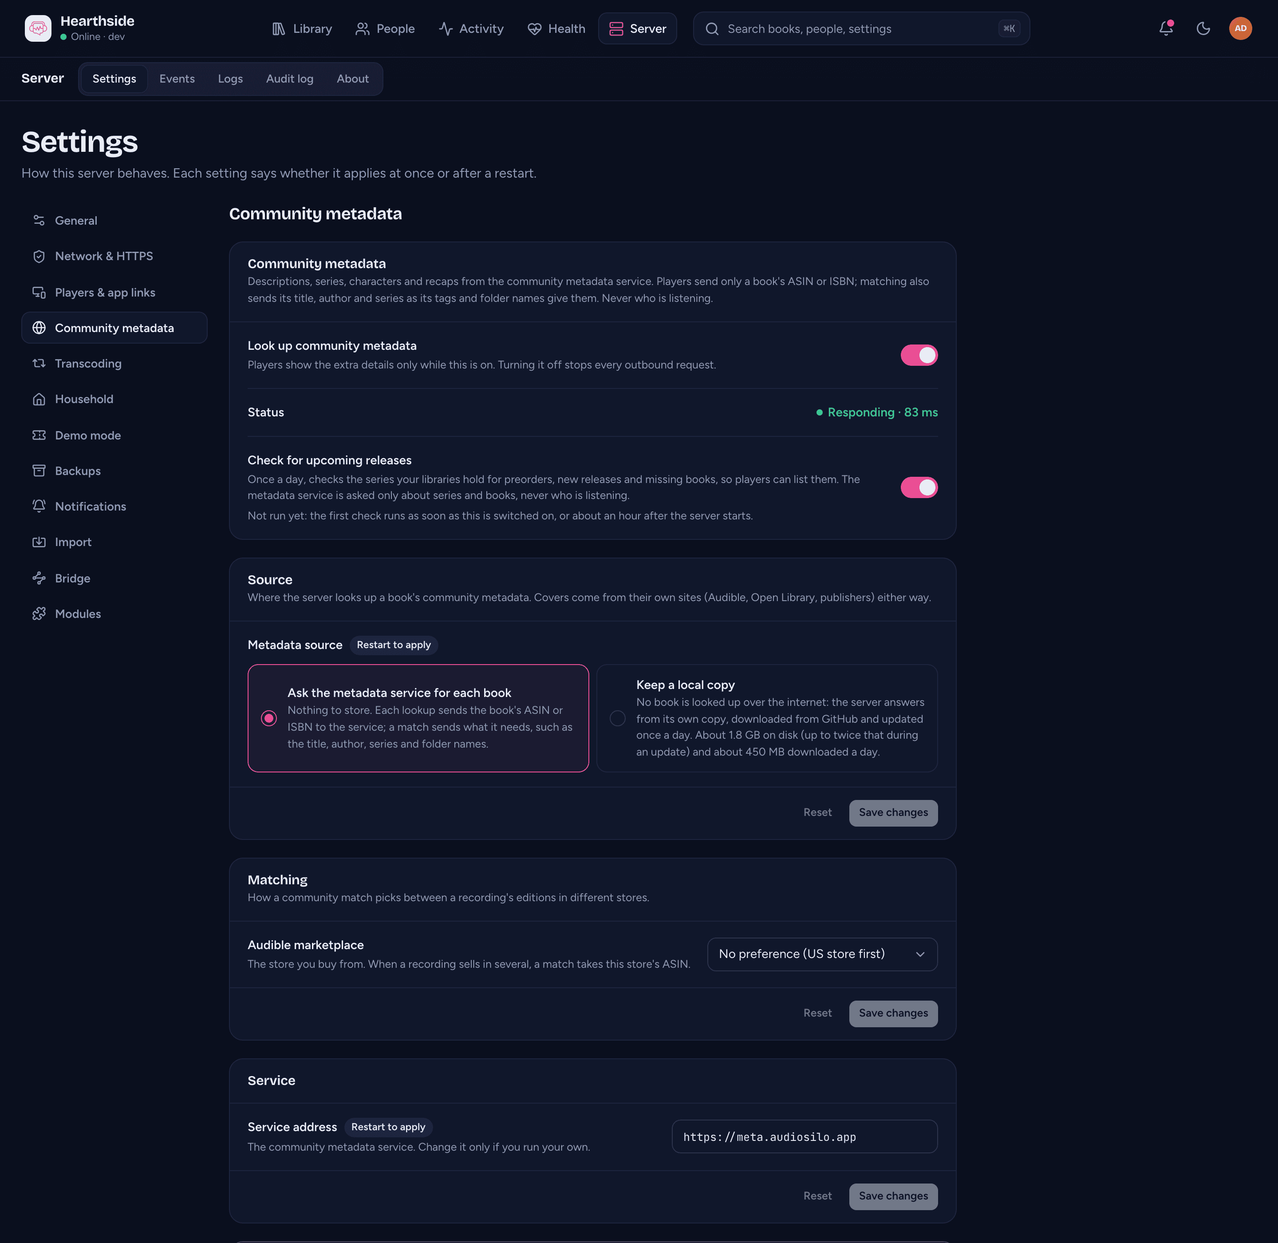
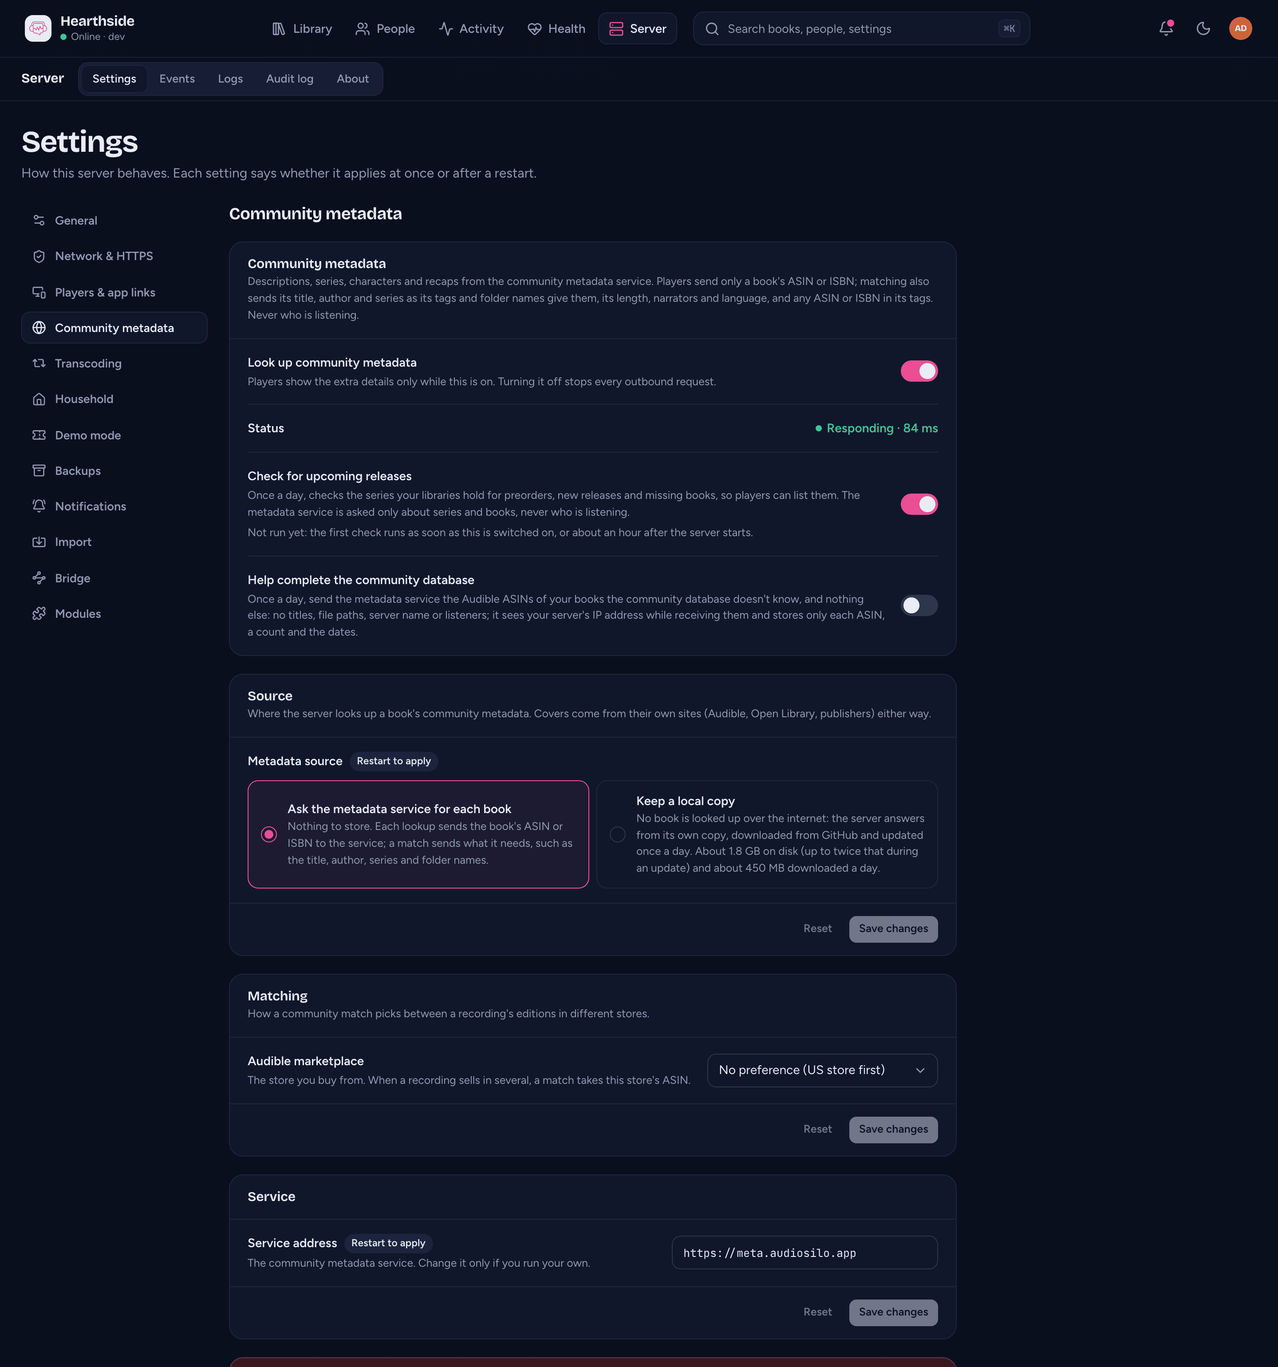
Help complete the community database: the opt-in unknown-ASIN report (2.6.0)
User Guide: Server settings gets the switch, a section on what it sends and
the status line's four states, and the local copy's exception; the FAQ,
the match note on Books and the tag hints on Health say what it adds.
Developer Docs: metadata.report_unknown in the config, env and settings
tables with a section on a run, the report_status wire in the API
reference, 0068 and the server_state key in the data model, and one line
in the cross-repo contract. The Settings > Metadata shot is retaken with
the new switch (taller viewport, so the Service card still fits).

diff --git a/docs-developers/server/configuration.md b/docs-developers/server/configuration.md
@@ -395,6 +395,7 @@ database and answers the same questions itself (see
 | `metadata.base_url` | string, `"https://meta.audiosilo.app"` | Base URL of the metadata service (the site is served at `/` and the API at `/api/v1`). **Must be an absolute `http`/`https` URL when metadata is enabled**. Still needed in mirror mode: it is the fallback, and the site links (`web_url`, the attribution's `source_url`) name it |
 | `metadata.mode` | string, `"remote"` | Where the lookups are answered: `remote` asks `base_url` for each book; `mirror` keeps a local copy of the service's database in `<data>/meta-mirror/` and answers from it ([below](#mirror-mode-metadatamode-mirror)). Any case, stored lower case; empty (a `config.yaml` written before the key existed) reads as `remote`; any other value is a config error naming the allowed ones. **Read at start** (a restart setting) |
 | `metadata.region` | string, `""` | The Audible marketplace a community match prefers when a recording sells in several: one of `us`, `uk`, `ca`, `au`, `de`, `fr`, `es`, `it`, `jp`, `in`, `br` (the community metadata's region vocabulary; any case, stored lower case). `""` = no preference: the US store's ASIN first. Orders each match candidate's `asins` (preferred store's, then `us`, then the rest), breaks a runtime tie between recordings for the one selling there, and is what a [bulk match](api/reference.md#bulk-community-matching) repick looks for. It says nothing about a library's language: a match sends only the book's own. Applies live |
+| `metadata.report_unknown` | bool, `false` | The opt-in daily report of unknown Audible ASINs (2.6.0; [below](#the-unknown-asin-report-metadatareport_unknown)). Runs only while `metadata.enabled` is on too, never on a demo server. Applies live (console: **Server > Settings > Community metadata**, *Help complete the community database*, setting id `metadata.report_unknown`, greyed out while the lookup is off); `AUDIOSILO_METADATA_REPORT_UNKNOWN` wins at every start and locks it |
 
 `metadata.enabled` applies **live**: an admin can switch the lookup on or off
 from the console's **Server > Settings > Community metadata** (or via
@@ -422,6 +423,48 @@ when there is one; while it is off nothing is checked and
 Chapters already in use stay until an admin switches a book back. Enrichment is
 strictly additive and cached - a slow or unreachable service degrades to no
 section, never a broken page.
+
+#### The unknown-ASIN report (`metadata.report_unknown`)
+
+Off by default. While it and `metadata.enabled` are on, a daily job
+(`internal/coverage`) sends the metadata service the Audible ASINs of this
+server's books that the community database doesn't know, so the community's
+[reported-ASIN lane](../meta/sync-bot.md#the-reported-asin-lane) can import
+them. A run:
+
+- **Candidates**: books libraries only, upper-cased and format-checked. Each
+  book's `asin` (except one a community match gave it, which is known by
+  definition), plus a tag ASIN only for a book with no ASIN or ISBN of its own
+  and a tag no other book carries (`catalog.UnknownASINCandidates`).
+- **Lookup first**: up to 500 candidates a run (never looked up, or looked up 30+
+  days ago) go through the ordinary lookup (`meta.Service.KnownASIN`); only a 404
+  counts as unknown, and any other failure stops the lookups until the next day.
+  In mirror mode the run waits until the local copy is ready, the copy answers the
+  lookups, and only the report goes to `base_url`.
+- **The report**: the unknown ASINs not sent in the last 30 days, shuffled, 200 to
+  a `POST <base_url>/api/v1/intake/unknown-asins` with the body exactly
+  `{"asins":[...]}`, at most 5 a run and none within 23 hours of the last. Headers
+  are only `Content-Type: application/json` and a fixed `User-Agent: AudioSilo`:
+  no `X-AudioSilo-Client`, server id, auth or version. Redirects are never
+  followed.
+- **HTTPS only**: a `base_url` with plain `http` is reported to only when its host
+  is loopback (`127.0.0.0/8`, `::1`, `localhost`); any other is `not_offered`
+  with no call.
+- **Answers**: a 202 with `accepted` marks that chunk sent; a 404, 405, 3xx or a
+  2xx without `accepted` (an older metaserve, or intake off; see
+  [the intake queue](../meta/api.md#unknown-asin-intake-queue-optional)) is
+  `not_offered` and the service is left alone for 7 days; 429, 5xx or anything
+  else marks nothing (`failed`, tried the next day).
+- **Schedule**: the first run an hour after the start (or a day after the last
+  run), then daily +-1 hour. Switching it (or metadata) on runs it at once unless
+  one ran in the last 23 hours. The run state is kept in `server_state`, so a
+  restart never runs it again early.
+
+The console words the run from `GET /admin/settings`'s read-only
+`metadata.report_status` (see the
+[API reference](api/reference.md#get-apiv1adminsettings)). What it stores is in
+[Data model](data-model.md#unknown-asin-reports): ASINs only, never a book or
+path.
 
 #### Mirror mode (`metadata.mode: mirror`)
 
@@ -742,6 +785,7 @@ by the settings table in `internal/config/settings.go` (`fields`: each entry's
 | `AUDIOSILO_METADATA_BASE_URL` | `metadata.base_url` | URL |
 | `AUDIOSILO_METADATA_REGION` | `metadata.region` | marketplace code (`uk`) |
 | `AUDIOSILO_METADATA_MODE` | `metadata.mode` | `remote` or `mirror` (any case) |
+| `AUDIOSILO_METADATA_REPORT_UNKNOWN` | `metadata.report_unknown` | `strconv.ParseBool` (`true`/`1`/…) |
 | `AUDIOSILO_UPCOMING_ENABLED` | `upcoming.enabled` | `strconv.ParseBool` (`false`/`0`/… turns it off) |
 | `AUDIOSILO_UPCOMING_WINDOW_DAYS` | `upcoming.window_days` | integer, 1-365; read at start |
 | `AUDIOSILO_UPDATE_CHECK` | `update_check` | `strconv.ParseBool` (`false`/`0`/… turns it off) |
@@ -814,6 +858,7 @@ restart, and whether the console may change it at all:
 | `metadata.region` | `metadata.region` | `AUDIOSILO_METADATA_REGION` | at once |
 | `metadata.mode` | `metadata.mode` | `AUDIOSILO_METADATA_MODE` | restart |
 | `metadata.upcoming` | `upcoming.enabled` | `AUDIOSILO_UPCOMING_ENABLED` | at once |
+| `metadata.report_unknown` | `metadata.report_unknown` | `AUDIOSILO_METADATA_REPORT_UNKNOWN` | at once |
 | `demo.enabled` | `demo.enabled` | `AUDIOSILO_DEMO_ENABLED` | restart |
 | `demo.library` | `demo.library` | `AUDIOSILO_DEMO_LIBRARY` | at once |
 | `demo.max_users` | `demo.max_users` | `AUDIOSILO_DEMO_MAX_USERS` | at once |

diff --git a/docs-users/admin/server.md b/docs-users/admin/server.md
@@ -221,7 +221,9 @@ listeners' devices never contact those image hosts.
 
 With a [local copy](#keeping-a-local-copy) (once it is ready), the lookup,
 matching and the chapter checks are all answered on your server; only the
-cover images are still downloaded from their hosts.
+cover images are still downloaded from their hosts (and, if you turned it on,
+the daily [report of unknown ASINs](#helping-complete-the-community-database)
+still goes to the metadata service).
 
 - Flipping the switch takes effect immediately for **everyone connected**, and
   the choice is remembered across restarts.
@@ -251,6 +253,12 @@ cover images are still downloaded from their hosts.
   *M* books coming or missing", or, in red, "Last check failed *when*" with the
   reason. How far back a release still counts as new (90 days) is set in the
   config file only.
+- **Help complete the community database** (from 2.6.0, **off** by default)
+  sends the metadata service, once a day, the Audible ASINs of your books that
+  the community database doesn't know, so the community can add them. See
+  [Helping complete the community database](#helping-complete-the-community-database)
+  below for what it sends and what the line under it says. Like the upcoming
+  check, it works only while the lookup is on.
 - **Audible marketplace** in the **Matching** card is the store you buy from
   (United Kingdom, United States, Germany and so on). When a recording sells in
   several stores, a match takes this store's ASIN; with **No preference** it
@@ -279,6 +287,59 @@ cover images are still downloaded from their hosts.
   only matching again brings the values back. While a match run is working it
   asks you to wait for it, or stop it, first.
 
+#### Helping complete the community database
+
+From 2.6.0, the **Help complete the community database** switch lets your
+server tell the community which of your books it is missing. It is **off**
+until you turn it on, and it works only while **Look up community metadata** is
+on (it is greyed out otherwise). Once a day, while it is on:
+
+1. The server collects your books' Audible ASINs: each book's own ASIN, and an
+   ASIN from a book's tags only when the book has no ASIN or ISBN of its own
+   and no other book's tags carry the same ASIN.
+2. It looks each one up in the community database first, as the lookup always
+   does, and keeps only the ones the database doesn't know.
+3. It sends those ASINs to the metadata service, and nothing else: no titles,
+   file paths, server name, or anything about who listens. The service sees
+   your server's IP address while it receives them and stores only each ASIN,
+   a count and the dates it was reported, with no address. It holds the
+   address in memory for about a day after its last request, for a rate limit.
+   meta.audiosilo.app keeps no access log for these reports over HTTPS, which
+   is how AudioSilo servers send them; if the service fails while
+   answering one, the web server's error log can record the address. Its
+   [privacy page](https://meta.audiosilo.app/privacy) ("Reports of unknown
+   books") has the details.
+
+A report is a suggestion of where to look, never a record: the community's
+catalogue bot can look each reported ASIN up as a real Audible listing and add
+the book in a reviewed change, so a later lookup of that book finds it.
+
+Some limits on what it does:
+
+- It sends only over **HTTPS**. With a **Service address** that starts with
+  `http://` (other than one on this same machine, for testing), nothing is sent.
+- With a [local copy](#keeping-a-local-copy), the lookups are answered by the
+  copy on your server, and only the report itself goes to the metadata service.
+  Nothing is sent until the copy is ready.
+- A server in [demo mode](#demo-mode) never sends a report.
+- An ASIN already sent isn't sent again for a month, and one the database later
+  adds stops being sent.
+
+While the switch and the lookup are both on, a line under it says how the last
+report went:
+
+- "Not sent yet: the first report goes out as soon as this is switched on, or
+  about an hour after the server starts."
+- "Last report *when*: *N* unknown ASINs sent", or "Last checked *when*:
+  nothing new to send" when every ASIN is known or was sent recently.
+- "Last tried *when*: the metadata service doesn't take reports (it needs an
+  https address and a service that accepts them)." Either the service address
+  is not HTTPS, so nothing was sent, or the service is an older one (or one run
+  with reports turned off) that doesn't accept them, and the server then leaves
+  it alone for a week before it tries again.
+- In red, "Last report failed *when*; it's tried again tomorrow." The service
+  didn't answer, or was too busy; nothing was marked as sent.
+
 #### Keeping a local copy
 
 Choose a local copy if you'd rather no book were looked up over the internet:
@@ -293,7 +354,11 @@ The **Source** card has two choices:
 - **Keep a local copy.** The server downloads a copy of the whole community
   database and answers every lookup from it, so **no book is looked up over
   the internet**: not the "About this book" lookups, not the match dialog or
-  Match automatically, not the community chapter checks.
+  Match automatically, not the community chapter checks. If you turn on the
+  optional
+  [report of unknown ASINs](#helping-complete-the-community-database), the
+  copy answers its lookups too, and only the report itself goes to the
+  metadata service.
 
 What a local copy costs:
 

diff --git a/docs-developers/server/data-model.md b/docs-developers/server/data-model.md
@@ -1025,6 +1025,12 @@ Its keys:
   `last_error`, `failures` (failed runs since the last success, for the hourly
   retries), `next_run_at`, `series` and `items`. The console reads it as
   `metadata.upcoming_status` on `GET /admin/settings`.
+- `unknown_asin_report`: the [unknown-ASIN report](#unknown-asin-reports)'s run
+  status (`catalog.UnknownASINReport`): `state` (`ok`, `not_offered` or `failed`;
+  absent before the first run), `last_run_at`, `last_sent` (how many ASINs the
+  last run's accepted reports held) and `quiet_until` (when a `not_offered`
+  service is tried again, a week on). The console reads it as
+  `metadata.report_status` on `GET /admin/settings`.
 
 ### The Bridge
 
@@ -1242,6 +1248,22 @@ The job's run status is the `upcoming` key of [`server_state`](#server-state). T
 calendar feed (Track U3) adds no table: its secret is a `tokens` row of kind `feed`
 (above, `0060`), and the calendar and the Upcoming covers are read from these tables
 at the request.
+
+### Unknown ASIN reports
+
+*(0068, LibraForge C3)* - what the opt-in
+[unknown-ASIN report](configuration.md#the-unknown-asin-report-metadatareport_unknown)
+(`internal/coverage`, `catalog/coverage.go`) has looked up and sent.
+**`unknown_asin_reports`** has one row per ASIN the job looked up: `asin`
+(primary key, upper case), `checked_at` (when it was last looked up), `unknown`
+(`1` when that answer was "not in the community database"; `0` = known, never
+sent) and `sent_at` (when a report holding it was accepted, `NULL` for never; an
+`unknown` row a later lookup finds known forgets it). It names no book, library
+or path: a row whose ASIN no book holds any more is deleted at the start of the
+next run. Derived and disposable (losing it only means the ASINs are looked up
+and sent again), written through the user-state path (no content cache reads it).
+`MAX(sent_at)` keeps the report to once a day across restarts; the run status is
+the `unknown_asin_report` key of [`server_state`](#server-state).
 
 ### Durable per-library config (path-keyed, no FK to books)
 
@@ -1522,6 +1544,7 @@ The migration history so far:
 | 0061 | `listening_events` | listening sync (Sync v2, Track W1): the `listening_events` log (FK `users`/`libraries` `ON DELETE CASCADE`, no FK to `books`, unique `(user_id, event_id)`, indexes `idx_listening_events_path` and `idx_listening_events_ended`), `idx_history_user_path_ended` on `listening_history`, and the `progress` columns `device_name` (`TEXT NOT NULL DEFAULT ''`), `finish_changed_at`, `other_position`, `other_device_id`, `other_device_name`, `other_at` and `other_version` (all nullable, `NULL` on every existing row). No data moves (see [Durable per-user state](#durable-per-user-state-path-keyed-no-fk-to-books)) |
 | 0062 | `listening_span_chain` | listening sync (server#289): `progress.span_at` and `span_version` (nullable, `NULL` on every existing row), so a device's span chain lasts across posts of `POST /me/listening/sync`. No data moves |
 | 0067 | `tag_hints` | [tag hints](#tag-hints): `books.tag_asin`, `tag_isbn` and `tag_language` (`TEXT NOT NULL DEFAULT ''`) and `books.hints_checked` (`INTEGER NOT NULL DEFAULT 0`, so the next scan reads each unchanged book's tags once) |
+| 0068 | `unknown_asin_reports` | the [unknown-ASIN report](#unknown-asin-reports)'s `unknown_asin_reports` table (`asin` primary key, `checked_at`, `unknown`, `sent_at`; `WITHOUT ROWID`), derived and naming no book. No data moves |
 
 ## SQLite choices
 

diff --git a/docs-developers/server/api/reference.md b/docs-developers/server/api/reference.md
@@ -8564,6 +8564,7 @@ and `AUDIOSILO_*` variable each one is, and whether it needs a restart (see
     "region": "uk",
     "mode": "remote",
     "upcoming": true,
+    "report_unknown": false,
     "available": true,
     "upcoming_status": {
       "last_run_at": "2026-10-30T04:12:00.000Z",
@@ -8571,7 +8572,8 @@ and `AUDIOSILO_*` variable each one is, and whether it needs a restart (see
       "next_run_at": "2026-10-31T04:40:12.000Z",
       "series": 14,
       "items": 9
-    }
+    },
+    "report_status": { "state": "never", "last_sent": 0 }
   },
   "demo": {
     "enabled": false,
@@ -8620,6 +8622,8 @@ effect. Lists are never `null`.
 | `metadata.mode` | `"remote"` (ask `base_url` for each book) or `"mirror"` (keep a local copy and answer from it; see [Mirror mode](../configuration.md#mirror-mode-metadatamode-mirror)). A restart setting: a saved change is listed in `restart_pending`, and `GET /admin/system`'s `metadata.mode` keeps the running mode until the restart |
 | `metadata.upcoming` | the [upcoming releases](#upcoming-releases) job's switch (config `upcoming.enabled`, default `true`). Applies at once: switched on (with metadata on) it runs soon when no run has succeeded for a day; switched off it stops a run in flight. The live `upcoming` [capability](#get-apiv1server) is `metadata` **and** this |
 | `metadata.upcoming_status` | read-only (2.6.0): how the job's runs went, absent without a metadata service. `last_run_at`, `last_success_at` (both absent before the first run; equal when the last run worked), `last_error` (the last failed run's error, cleared by a success), `next_run_at`, `series` (local series matched to a community series) and `items` (what they lack in all). The console's Settings > Metadata words it |
+| `metadata.report_unknown` | the opt-in [unknown-ASIN report](../configuration.md#the-unknown-asin-report-metadatareport_unknown)'s switch (2.6.0; config `metadata.report_unknown`, default `false`). Applies at once: switched on (with metadata on) it runs now unless a run was made in the last 23 hours; switched off it stops a run in flight |
+| `metadata.report_status` | read-only (2.6.0): the report's last run, absent without a metadata service and on a demo server. `state` is `never` (no run yet), `ok` (the run worked; `last_sent` ASINs were accepted, `0` = nothing new to send), `not_offered` (the `base_url` is plain `http` off this machine, or the service took no reports: a 404, 405, 3xx or a 2xx without `accepted`; it is left alone for 7 days) or `failed` (the service failed or refused, tried the next day); `last_run_at` (absent before the first run) and `last_sent`. The console's Settings > Metadata words it |
 | `metadata.available` | read-only: a metadata service exists (`base_url` was a valid absolute `http(s)` URL when the server started), so `enabled` can be turned on. The live `metadata` [capability](#get-apiv1server) is `enabled && available` |
 | `demo.max_users` | `null` = the default cap (`max_users_default`); `0` = no limit |
 | `demo.idle_ttl` | `""` = 24h |

diff --git a/docs-users/faq.md b/docs-users/faq.md
@@ -154,10 +154,22 @@ language, any ASIN or ISBN in its tags, folder names and the like; see
 [Server settings](./admin/server.md#community-metadata)).
 Nothing about who listens, and no file paths, is ever sent.
 
+One more thing is sent only if the admin turns it on: with **Help complete the
+community database** (from 2.6.0, off by default), the server sends
+meta.audiosilo.app, once a day, the Audible ASINs of its books that the
+community database doesn't know, so the community can add them. No titles,
+file paths, server name or listener details go with them. The service stores
+each ASIN with a count and dates and no address with them; it holds your
+server's address in memory for about a day after its last request, for a rate
+limit (see
+[Helping complete the community database](./admin/server.md#helping-complete-the-community-database)).
+
 If you'd rather not look books up over the internet at all, the admin can
 choose **Keep a local copy** for community metadata: the server then downloads
 the whole community database from GitHub and answers every lookup from it.
 Until the first copy has downloaded, lookups still go to meta.audiosilo.app.
+The optional daily report above still goes to meta.audiosilo.app with a local
+copy, if it is turned on.
 What it costs in disk space and downloads is in
 [Keeping a local copy](./admin/server.md#keeping-a-local-copy). Or switch the
 community metadata off entirely, and the server contacts neither.

diff --git a/docs-developers/architecture/cross-repo-contract.md b/docs-developers/architecture/cross-repo-contract.md
@@ -595,6 +595,14 @@ the rails' `release_date` ("Out Nov 12, 2026"). Track U3 adds each item's real c
 (`upcoming_covers`) and a calendar feed (`upcoming_calendar`, a `feed` token); see
 [§3](#3-media-auth-rides-in-the-url---token). Details:
 [Upcoming releases](../frontend/state-and-data.md#upcoming-releases).
+The server's one write to `metaserve` is the opt-in unknown-ASIN report (2.6.0,
+`internal/coverage`, `metadata.report_unknown`, off by default): once a day,
+[`POST /api/v1/intake/unknown-asins`](../meta/api.md#post-apiv1intakeunknown-asins)
+with exactly `{"asins":[...]}`, only the ASINs a lookup answered 404 for, over
+https only (plain http only to a loopback host), with no client, server or auth
+headers and no redirects followed; a 404 or 405 is "not offered" (an older
+`metaserve`, or intake off) and quiet for a week (see
+[Configuration](../server/configuration.md#the-unknown-asin-report-metadatareport_unknown)).
 **Frontend:** the `BookMeta` envelope (hand-mirrored in `src/api/types.ts`) is
 fetched by `client.bookMeta` and rendered capability-gated on the book screen's
 Recaps/Characters/Series tabs, and also read by the series page, Home (the Now card

diff --git a/docs-users/admin/health.md b/docs-users/admin/health.md
@@ -230,6 +230,15 @@ as long as its recording's length is within 10% of the book's. It goes to
 found by an identifier too. A hint the community doesn't know costs nothing: the
 book is matched on its other details.
 
+With [Help complete the community database](server.md#helping-complete-the-community-database)
+on, a tag ASIN the community doesn't know is also reported, for a book with no
+ASIN or ISBN of its own when no other book's tags carry the same ASIN. The
+community adds only a real Audible listing, but a wrong ASIN in a tag can still
+be a real listing of another book, and then that book is added to the community
+database. From then on the community knows that ASIN, so the next match treats
+the tag like any hint it knows (see the warning below). Correct a tag you know is
+wrong, and it stops being reported after the next scan.
+
 :::warning[A wrong ASIN in a tag can apply the wrong book]
 Nothing else checks a hint. An ASIN in a tag that names another work of about the
 same length is confident, and ticked, like any other: it can apply the wrong

diff --git a/docs-users/admin/books.md b/docs-users/admin/books.md
@@ -580,7 +580,9 @@ service. It sends nothing about your server or
 who listens. For a player's "About this book", the server sends only the ASIN
 or ISBN (see [Community metadata](server.md#community-metadata)). With a
 [local copy](server.md#keeping-a-local-copy) of the community metadata (once it
-is ready), none of this leaves your server.
+is ready), none of this leaves your server; only the optional daily
+[report of unknown ASINs](server.md#helping-complete-the-community-database)
+still goes out, when you turn it on.
 
 To show the candidates' covers, your server also downloads each cover image
 from wherever the catalogue keeps it (Audible's image servers or Open
